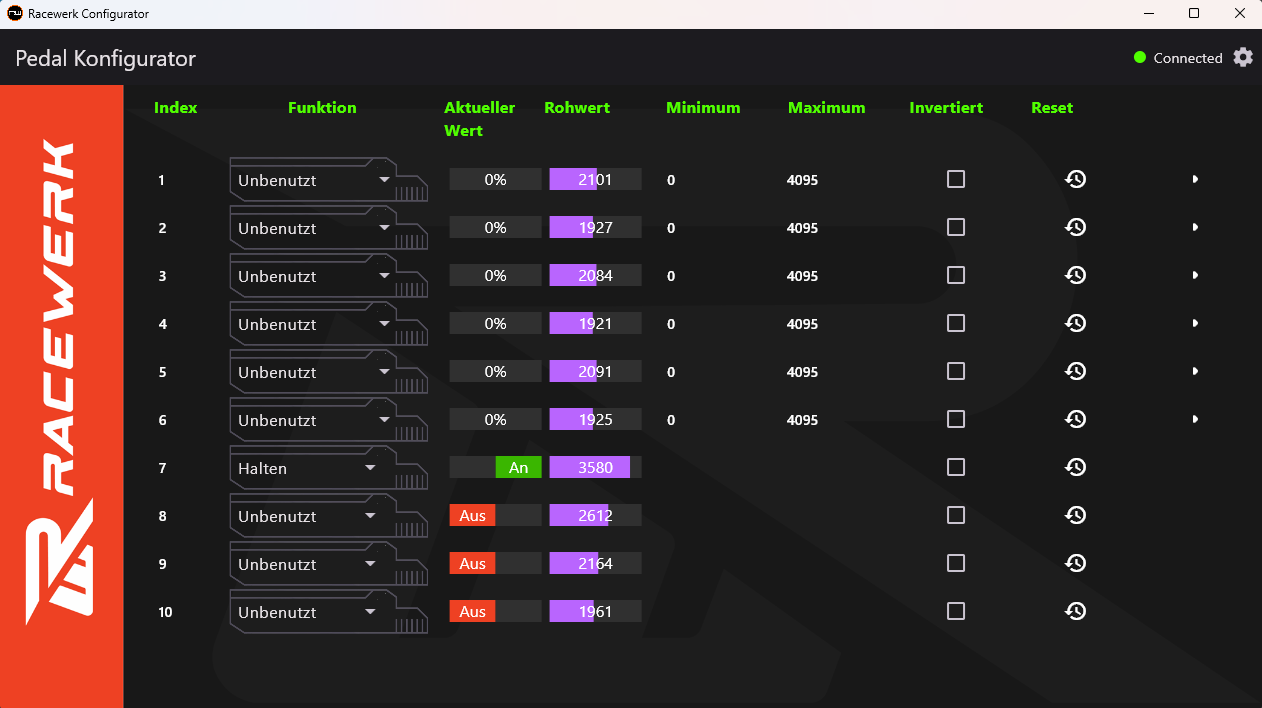
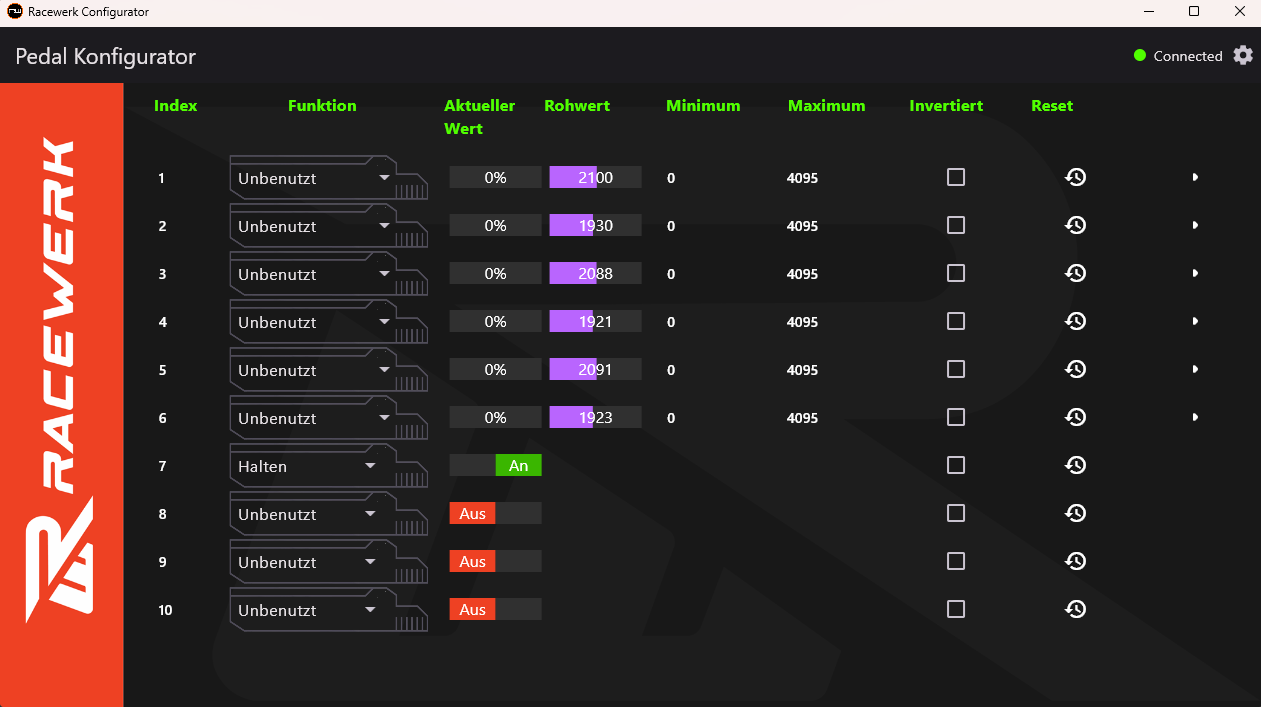
Removed raw values for buttons

diff --git a/lib/pages/home/channel_item/button_sim_bar.dart b/lib/pages/home/channel_item/button_sim_bar.dart
@@ -98,12 +98,8 @@ class _ButtonSimBarState extends ConsumerState<ButtonSimBar> {
                     offText: lang.off),
                 child: Container()),
           ),
-          SizedBox(
-            width: 100,
-            child: CustomPaint(
-                painter: BarPainter(
-                    margin: 2, value: (rawValue ?? 0) / 4096.0, text: '${rawValue ?? lang.nSlashA}'),
-                child: Container()),
+          const SizedBox(
+            width: 100
           ),
         ]);
   }
